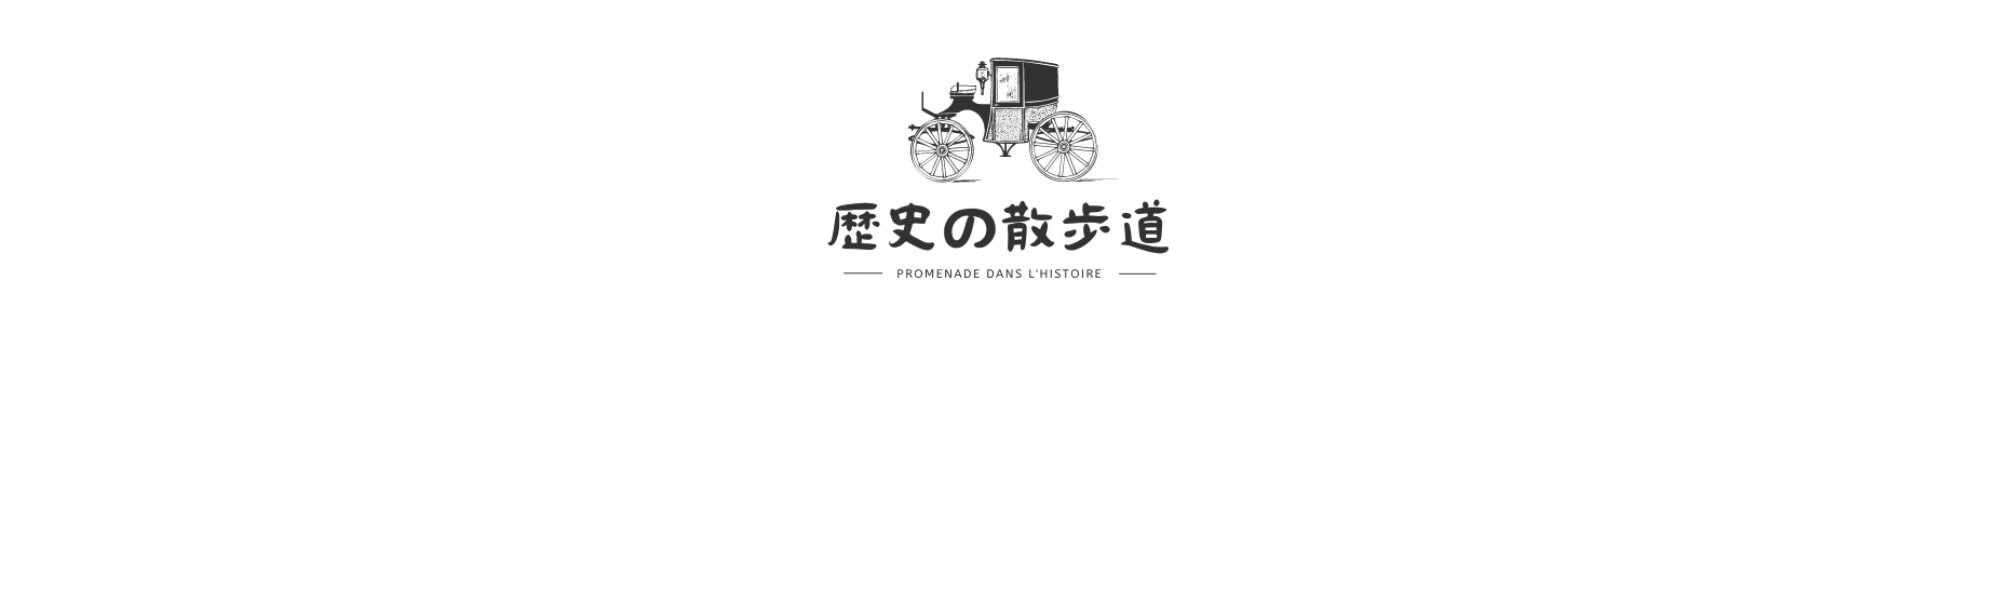
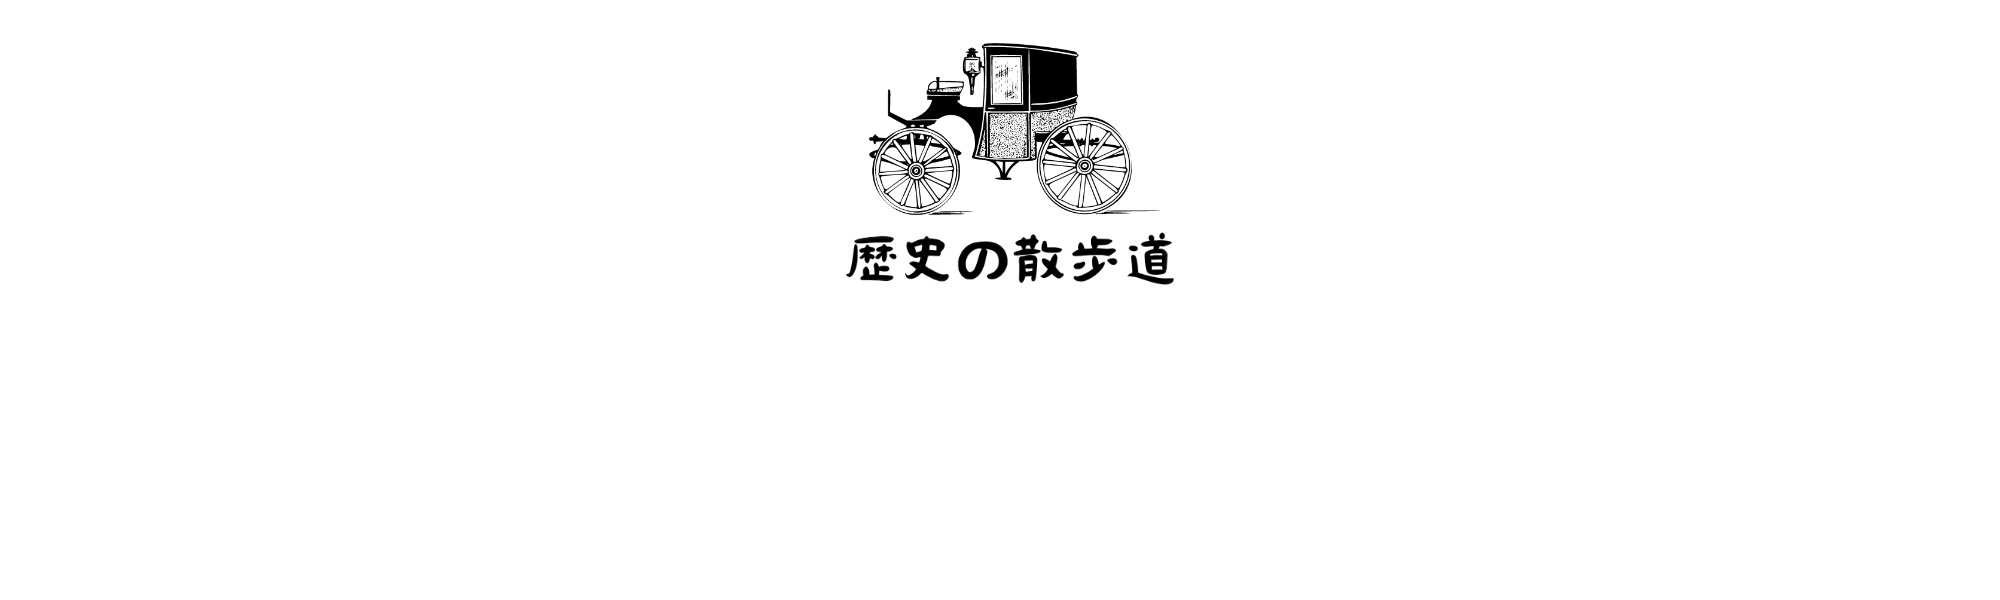
各種ロゴの修正

Changed region(s): [[0.403, 0.06, 0.589, 0.48]]

diff --git a/style.css b/style.css
@@ -453,6 +453,7 @@ Footer
 }
 #footer .item {
   width: 30%;
+  
 }
 
 #footer p {
@@ -478,8 +479,8 @@ Footer
 }
 
 #footer .footer-logo {
-  width: 90%;
-  height: 90%;
+  width: 80%;
+  height: 80%;
 }
 
 #footer .copyright {
@@ -565,7 +566,8 @@ Back to top
 SP
 -------------------------------------------*/
 
-@media screen and (max-width: 767px) {
+/* @media screen and (max-width: 767px) { */
+@media screen and (max-width:768px) and ( max-width:1024px)  {
   header {
     max-width: 100%;
     height: auto;
@@ -624,11 +626,14 @@ SP
   }
 
   #footer .item {
-    width: 90%;
+    width: 80%;
+    text-align: center;
   }
 
   #footer .footer-logo {
   margin-bottom: 2rem;
+  width: 40%;
+  
 }
 
   #footer .footer-title{

diff --git a/footer.php b/footer.php
@@ -5,7 +5,7 @@
   <div class="content wrapper">
     <section class="item">
       <a href="index.php">
-        <img class="footer-logo" src="<?php echo get_theme_file_uri('img/site-logo.svg'); ?>" alt="サイトロゴ" />
+        <img class="footer-logo" src="<?php echo get_theme_file_uri('img/footer-logo.svg'); ?>" alt="フッターロゴ" />
       </a>
     </section>
     <section class="item">
